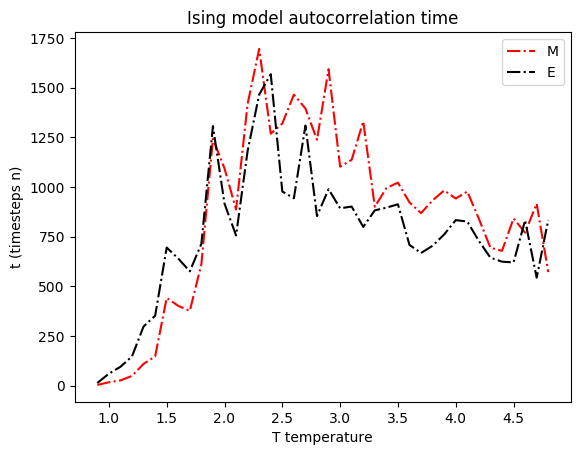
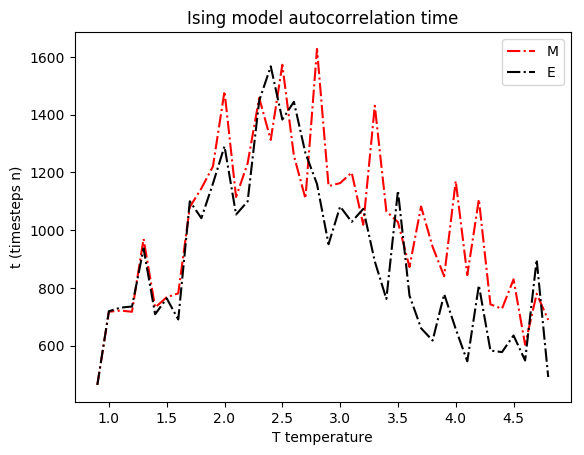
Fixed autocorrelation error

diff --git a/Ising/Ising.py b/Ising/Ising.py
@@ -841,7 +841,7 @@ def CalcAutocorrelation(T):
 		n = 0
 		
 		#Skal det være fra tmax eller tmax-1?
-		while n < Nequilibration+tmax-1:
+		while n <= Nequilibration+tmax-1:
 		#for n in range(150*N):
 			randi,randj = np.random.randint(0,nx,2)
 			#randj = np.random.randint(0,ny)
@@ -900,6 +900,9 @@ def CalcAutocorrelation(T):
 				E2array[nindex] = Eauto*Eauto
 
 			n += 1
+			
+		#Lige nu printer den 15000
+		#print(n-Nequilibration)
 		#=====================================
 		#De her ting TROR jeg skal bruges til alle metoderne, så dem laver vi bare
 		#Dette er averages OVER ALL TIMES
@@ -935,12 +938,42 @@ def CalcAutocorrelation(T):
 			#for i in range(nautotimes-k):
 				#M1M2 += Marray[i]*Marray[i+k]
 				#E1E2 += Earray[i]*Earray[i+k]
+			
+			#Hvis der er tmax=4000 elements i array, så kan jeg skrive
+			#Marray[:3999] = Marray[:tmax-1]
+			#Hvis k = 0, så
+			#(Marray[:tmax-0]-Marrayavg)*(Marray[0:tmax]-Marrayavg)
+			#(Marray[:tmax]-Marrayavg)*(Marray[0:tmax]-Marrayavg)
+			#Så, for k = 0, burde jeg da have tmax-1 et sted?
+			#Det kan være at jeg kun indsætter n = tmax-1 objects ind i array, dog!
+			#Så har vi en empty 0 at the end,
+			#Så jeg bør faktisk prøve at print("Hvor mange gange har jeg sat et element ind i Marray")
+			#Og, print(len(Marray)) Er jo IKKE nok, forid den HAR jo netop tmax length, det sidste element er måske bare 0
+			#OGSÅ, for k = 0, jeg skal vidst lige være sikker på, at begge array er ens...
+			#Fordi k = 0, svarer til,(Marray[:tmax]-Marrayavg)*(Marray[:tmax]-Marrayavg)
+			#Så jo, begge array ER ens, godt nok...
+			#
+			#Now, k = 1, hvad så?
+			#(Marray[:tmax-1]-Marrayavg)*(Marray[1:tmax]-Marrayavg)
+			
+			#
+				
 			Mnume = np.sum((Marray[:tmax-k]-Marrayavg)*(Marray[k:tmax]-Marrayavg))
 			Enume = np.sum((Earray[:tmax-k]-Earrayavg)*(Earray[k:tmax]-Earrayavg))
 			#M1M2 *= 1/(nautotimes-j-1)
 			#E1E2 *= 1/(nautotimes-j-1)
-			CEts2[k,nt] = Enume/Edenom
-			CMts2[k,nt] = Mnume/Mdenom
+			CEts2[k,nt] = Enume
+			CMts2[k,nt] = Mnume
+		
+		CEts2[:,nt] *= 1/Edenom
+		CMts2[:,nt] *= 1/Mdenom
+		print(Edenom,Mdenom)
+		
+		#==========================================
+		#Method 3
+		
+			#CEts3[k,nt] = Enume/Edenom
+			#CMts3[k,nt] = Mnume/Mdenom
 		#=================================================================
 		#print some stuff to see progress
 		#print("T = {0:.3f}".format(T))
@@ -959,16 +992,18 @@ def CalculateTauCorr():
 	for i in range(Nt):
 		#EUpToIndex = np.where(CEts2[:int(tmax*0.7),i] <= 0)[0]
 		#MUpToIndex = np.where(CMts2[:int(tmax*0.7),i] <= 0)[0]
-		
-		EUpToIndex = next(i for i, x_i in enumerate(CEts2[:,i]) if x_i <= 0)
-		MUpToIndex = next(i for i, x_i in enumerate(CMts2[:,i]) if x_i <= 0)
-		#print(EUpToIndex)
-		#print(MUpToIndex)
-		#problem er at argmax leder igennem HELE array... stopper ikke ved første index
-		#EUpToIndex = np.argmax(CEts2[:,i]<=0)
-		#MUpToIndex = np.argmax(CMts2[:,i]<=0)
-		tauEarray[i] = int(0.5 + np.sum(CEts2[:EUpToIndex,i]))
-		tauMarray[i] = int(0.5 + np.sum(CMts2[:MUpToIndex,i]))
+		try:
+			EUpToIndex = next(i for i, x_i in enumerate(CEts2[:,i]) if x_i <= 0)
+			MUpToIndex = next(i for i, x_i in enumerate(CMts2[:,i]) if x_i <= 0)
+			#print(EUpToIndex)
+			#print(MUpToIndex)
+			#problem er at argmax leder igennem HELE array... stopper ikke ved første index
+			#EUpToIndex = np.argmax(CEts2[:,i]<=0)
+			#MUpToIndex = np.argmax(CMts2[:,i]<=0)
+			tauEarray[i] = int(0.5 + np.sum(CEts2[:EUpToIndex,i]))
+			tauMarray[i] = int(0.5 + np.sum(CMts2[:MUpToIndex,i]))
+		except:
+			pass
 
 
 def PlotValues():
